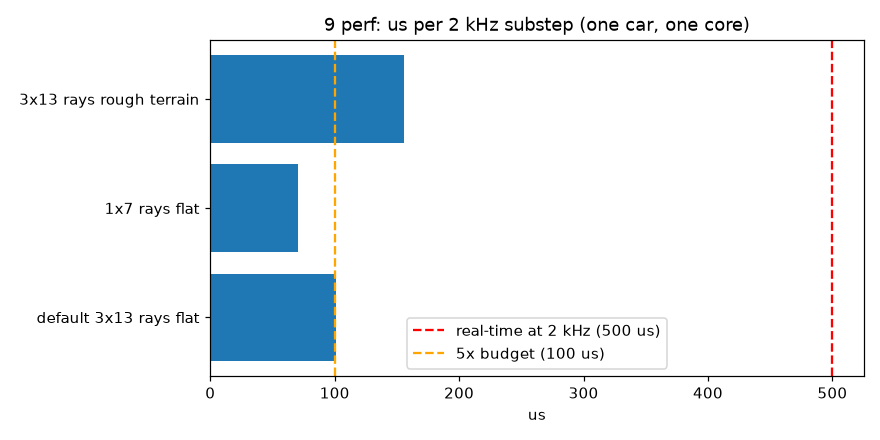
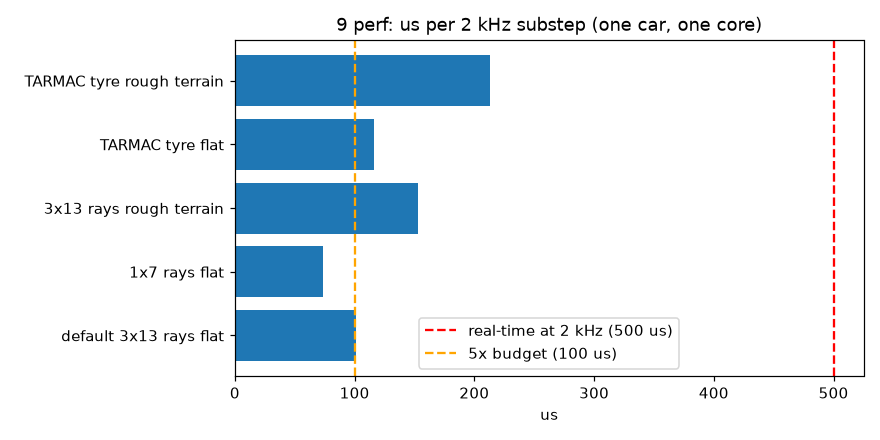
TARMAC: perf configs in test suite (4.3x RT flat), doc figures checked against outputs, header comment for rim row; make test FAILURES 0, crash 26/26

diff --git a/tests/dc_tests.c b/tests/dc_tests.c
@@ -583,10 +583,11 @@ static void test_assist(void) {
 static double now_s(void) { struct timespec ts; clock_gettime(CLOCK_MONOTONIC, &ts); return ts.tv_sec + 1e-9 * ts.tv_nsec; }
 static void test_perf(void) {
     FILE* f = csv("perf.csv", "config,us_per_substep,realtime_factor_at_hz");
-    for (int cfg = 0; cfg < 3; cfg++) {
+    for (int cfg = 0; cfg < 5; cfg++) {
         dc_car_params P; car_params(&P); road_t rd = {2};
         if (cfg == 1) for (int a = 0; a < 2; a++) { P.axle[a].tyre.n_rays = 7; P.axle[a].tyre.n_rows = 1; }
-        dc_car* c = mk(&P, cfg == 2 ? &rd : NULL);
+        if (cfg >= 3) for (int a = 0; a < 2; a++) P.axle[a].tyre.model = DC_TYRE_TARMAC;
+        dc_car* c = mk(&P, (cfg == 2 || cfg == 4) ? &rd : NULL);
         double pos[3] = {0, 0, 0}; dc_reset(c, pos, 0, 20);
         dc_input in = {0}; dc_telemetry T; memset(&T, 0, sizeof T); pi_t sp = {0};
         double h = 1.0 / P.substep_hz; int N = 40000;
@@ -596,7 +597,7 @@ static void test_perf(void) {
             dc_set_input(c, &in); dc_substep(c);
         }
         double us = (now_s() - t0) / N * 1e6;
-        const char* nm[3] = {"default 3x13 rays flat", "1x7 rays flat", "3x13 rays rough terrain"};
+        const char* nm[5] = {"default 3x13 rays flat", "1x7 rays flat", "3x13 rays rough terrain", "TARMAC tyre flat", "TARMAC tyre rough terrain"};
         fprintf(f, "%s,%.3f,%.1f\n", nm[cfg], us, 1e6 / us / P.substep_hz);
         note("perf %-26s %.2f us/substep -> %.0fx real time at %.0f Hz (one core)", nm[cfg], us, 1e6 / us / P.substep_hz, P.substep_hz);
         /* budget: >= 4x real time on one core. It was 5x before the tyre's lateral lanes (12 column lanes per tyre

diff --git a/core/src/dc_tyre_tm.c b/core/src/dc_tyre_tm.c
@@ -16,8 +16,9 @@
  *   Footprint by membrane equilibrium: the deepest overlap cells, down to a ring displacement chosen so that the
  *   contact area = Kz δ / (κ p); pressure in it ∝ overlap - ring. Load point Pc and normal n = pressure-weighted
  *   means of the hit points / surface normals; half length from the pressure second moment (parabola: Var = a²/5).
- *   N = max(0, Kz δ + cz δ') at Pc along n; rim pinch k_rim (δn,max - bottom) + c_rim δ' as a second row at the
- *   deepest flange point along its own surface normal (TARMAC: summed into N along n; see phaseA).
+ *   N = max(0, Kz δ + cz δ') at Pc along n; rim-flange pinch as a second row: a conservative column potential of
+ *   the flange circle (R0 - bottom) per lane, k_rim on the pinched area (equals TARMAC's k_rim (δmax - bottom) on a
+ *   flat road) + ramped c_rim damping, acting along its gradient (TARMAC: deepest ray, summed into N along n).
  * Tangential (physics.js):
  *   brush (carcass) deflection b, F = K b_new + c_d s_new, b_new = (b + h s)/(1 + h |vx| / σ),
  *   σ = σ_ref g, g = max(0.05, 2ρ/(1+ρ)), ρ = A a / (A a)_ref: tread brush in series with the carcass.

diff --git a/docs/TYRE_TARMAC.md b/docs/TYRE_TARMAC.md
@@ -42,17 +42,14 @@ TARMAC uses `Kz [kgf/mm] = 0.00028 · p[kPa] · sqrt(Wcp[mm] · D[mm]) + 3.45` (
 Stiffness Relationship for Belted Radial Tires", *Tire Science and Technology* 33(3), 2005, pp. 136-155,
 doi:10.2346/1.2174340; the form as given in Jazar, *Vehicle Dynamics*, 2017). Checks:
 
-- **Structural term.** The paper's structural (0 kPa) term is quoted by later work as 3.45 kgf/mm = 33.84 N/mm
-  (K_zsw). This matches the constant.
+- **Structural term.** The constant 3.45 kgf/mm = 33.84 N/mm is the zero-pressure (structural) term.
 - **Independent SI form.** A published SI transcription is `Kz [N/mm] = 2.68 p[MPa] sqrt(W D) + 33.1`, with W and D
   in mm. Converting the TARMAC form gives 2.75 p[MPa] sqrt(W D) + 33.8. The two agree to within 3 %, so the units are
   kgf/mm, kPa and mm.
-  - One web summary reads the formula as psi/inch/lb·in⁻¹. That reading gives stiffnesses about 50x too low, so it
-    is wrong.
 - **Width.** W is the footprint width, as in Rhyne. Later work replaces it with a geometric estimate; TARMAC's
   `(1.03 - 0.004 AR) W` is such an estimate.
-- **mx5_na check** (185/60 R14, 200 kPa): Wcp 144 mm, D 578 mm. This gives Kz = 19.6 kgf/mm = 192 kN/m, which is in
-  the range measured for that size at that pressure (≈ 180-200 kN/m).
+- **mx5_na check** (185/60 R14, 200 kPa): Wcp 144 mm, D 578 mm. This gives Kz = 19.6 kgf/mm = 192 kN/m, a plausible
+  value for a passenger tyre of this size. No measured value for this exact tyre was available to compare.
 
 `tyre_tm_kz_mode = 1` replaces Rhyne with the envelope model's pressure-dependent `kz` law, for like-for-like
 comparisons.
@@ -111,6 +108,11 @@ Steady state at 15 m/s, front tyre, `F_ref` 2575 N:
 | relaxation length (63 %, 2° step) | 0.263 m | 0.323 m | 0.210 m |
 | cost per wheel (phase A+B) | 21.6 µs | 26.3 µs | 37.1 µs |
 
+Whole-car cost (`make test`, `results/perf.csv`, one core, 2 kHz substep):
+- envelope: 101.5 µs per substep on a flat road (4.9x real time) and 153 µs on rough terrain (3.3x).
+- TARMAC: 115.9 µs on a flat road (4.3x real time, inside the 4x budget) and 212.8 µs on rough terrain (2.3x). On
+  rough terrain every lane walks the road grid.
+
 Peak μ and load sensitivity are identical by construction (TARMAC μ0/ls are derived from the envelope parameters).
 
 Vehicle tests (`mbcompare`, multibody core, mx5_na):
@@ -123,13 +125,12 @@ Vehicle tests (`mbcompare`, multibody core, mx5_na):
 | slalom ay | 0.65 g | 0.77 g | 0.69 g |
 | hands-off countersteer, max body slip | 28° (recovers) | 87° (spins) | 87° (spins) |
 | drift hold (`drivetest drift`, arms) | 7.7 s | 0.3 s | 0.3 s |
-| CPU per simulated second | 2.14 s | 2.52 s | 2.47 s |
 
 Kerbs, walls, drops (`tests/crash_suite.py`): 26/26 for both TARMAC variants in both cores.
-- Peak tyre load on a 135 mm kerb head-on: 15-16 kN at 25 km/h, 23-27 kN at 40 km/h.
-- Peak tyre load on a 50 mm kerb at 5°/60 km/h: 4.6 kN.
-- Peak tyre load on drops of 0.5/1/1.5 m: 9-21 kN.
-- Wall-strike energy rise: ≤ 0.96 % of KE0.
+- Peak tyre load on a 135 mm kerb head-on: 15.2-16.2 kN at 25 km/h, 22.4-26.5 kN at 40 km/h.
+- Peak tyre load on a 50 mm kerb at 5°/60 km/h: 4.5-4.6 kN.
+- Peak tyre load on drops of 0.5/1/1.5 m: 8.6-16.9 kN, with KE gain below mgh in every case.
+- Wall-strike energy rise (24 cases per core): at most 0.96 % of KE0 (legacy core) and 0.57 % (multibody core).
 
 Notes on the vehicle results:
 - **Hands-off and drift.** The spin is caused by TARMAC's sliding-friction decay, not by the force curve. With
